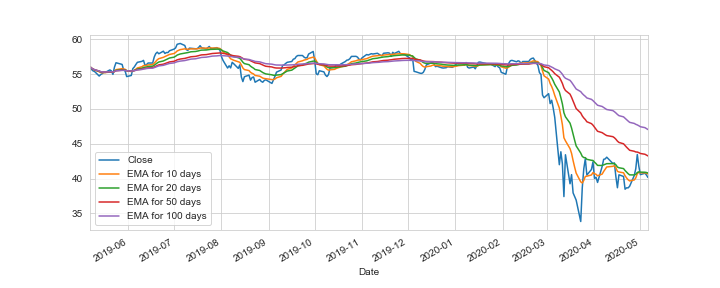
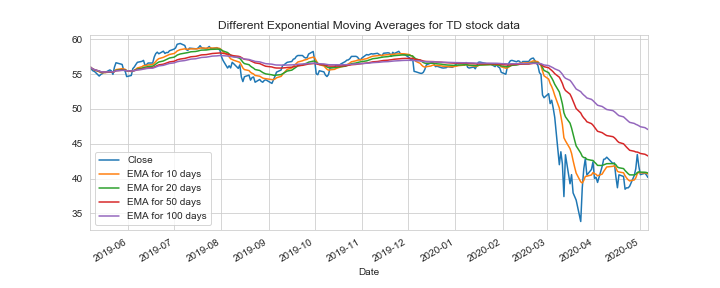
update

Changed region(s): [[0.3056, 0.0625, 0.7333, 0.125]]

diff --git a/README.md b/README.md
@@ -30,6 +30,10 @@ In the figure below different moving averages for TD stock data have been illust
 
 <img src="https://github.com/kavehamini/Stock-Market-Analysis-and-Prediction-Banks-Stocks/blob/master/3.png">
 
+Also different Exponential Moving Averages for TD stock data have been shown in the figure below. Exponential Moving Averages react faster to the changes in the stock market.
+
+<img src="https://github.com/kavehamini/Stock-Market-Analysis-and-Prediction-Banks-Stocks/blob/master/4.png">
+
 ### Conclusion
 
 The stock market data for four Canadian banks has been investigated and analyzed. The risk for investing as well as future value at risk has been determined. All banks have relatively similar results.
